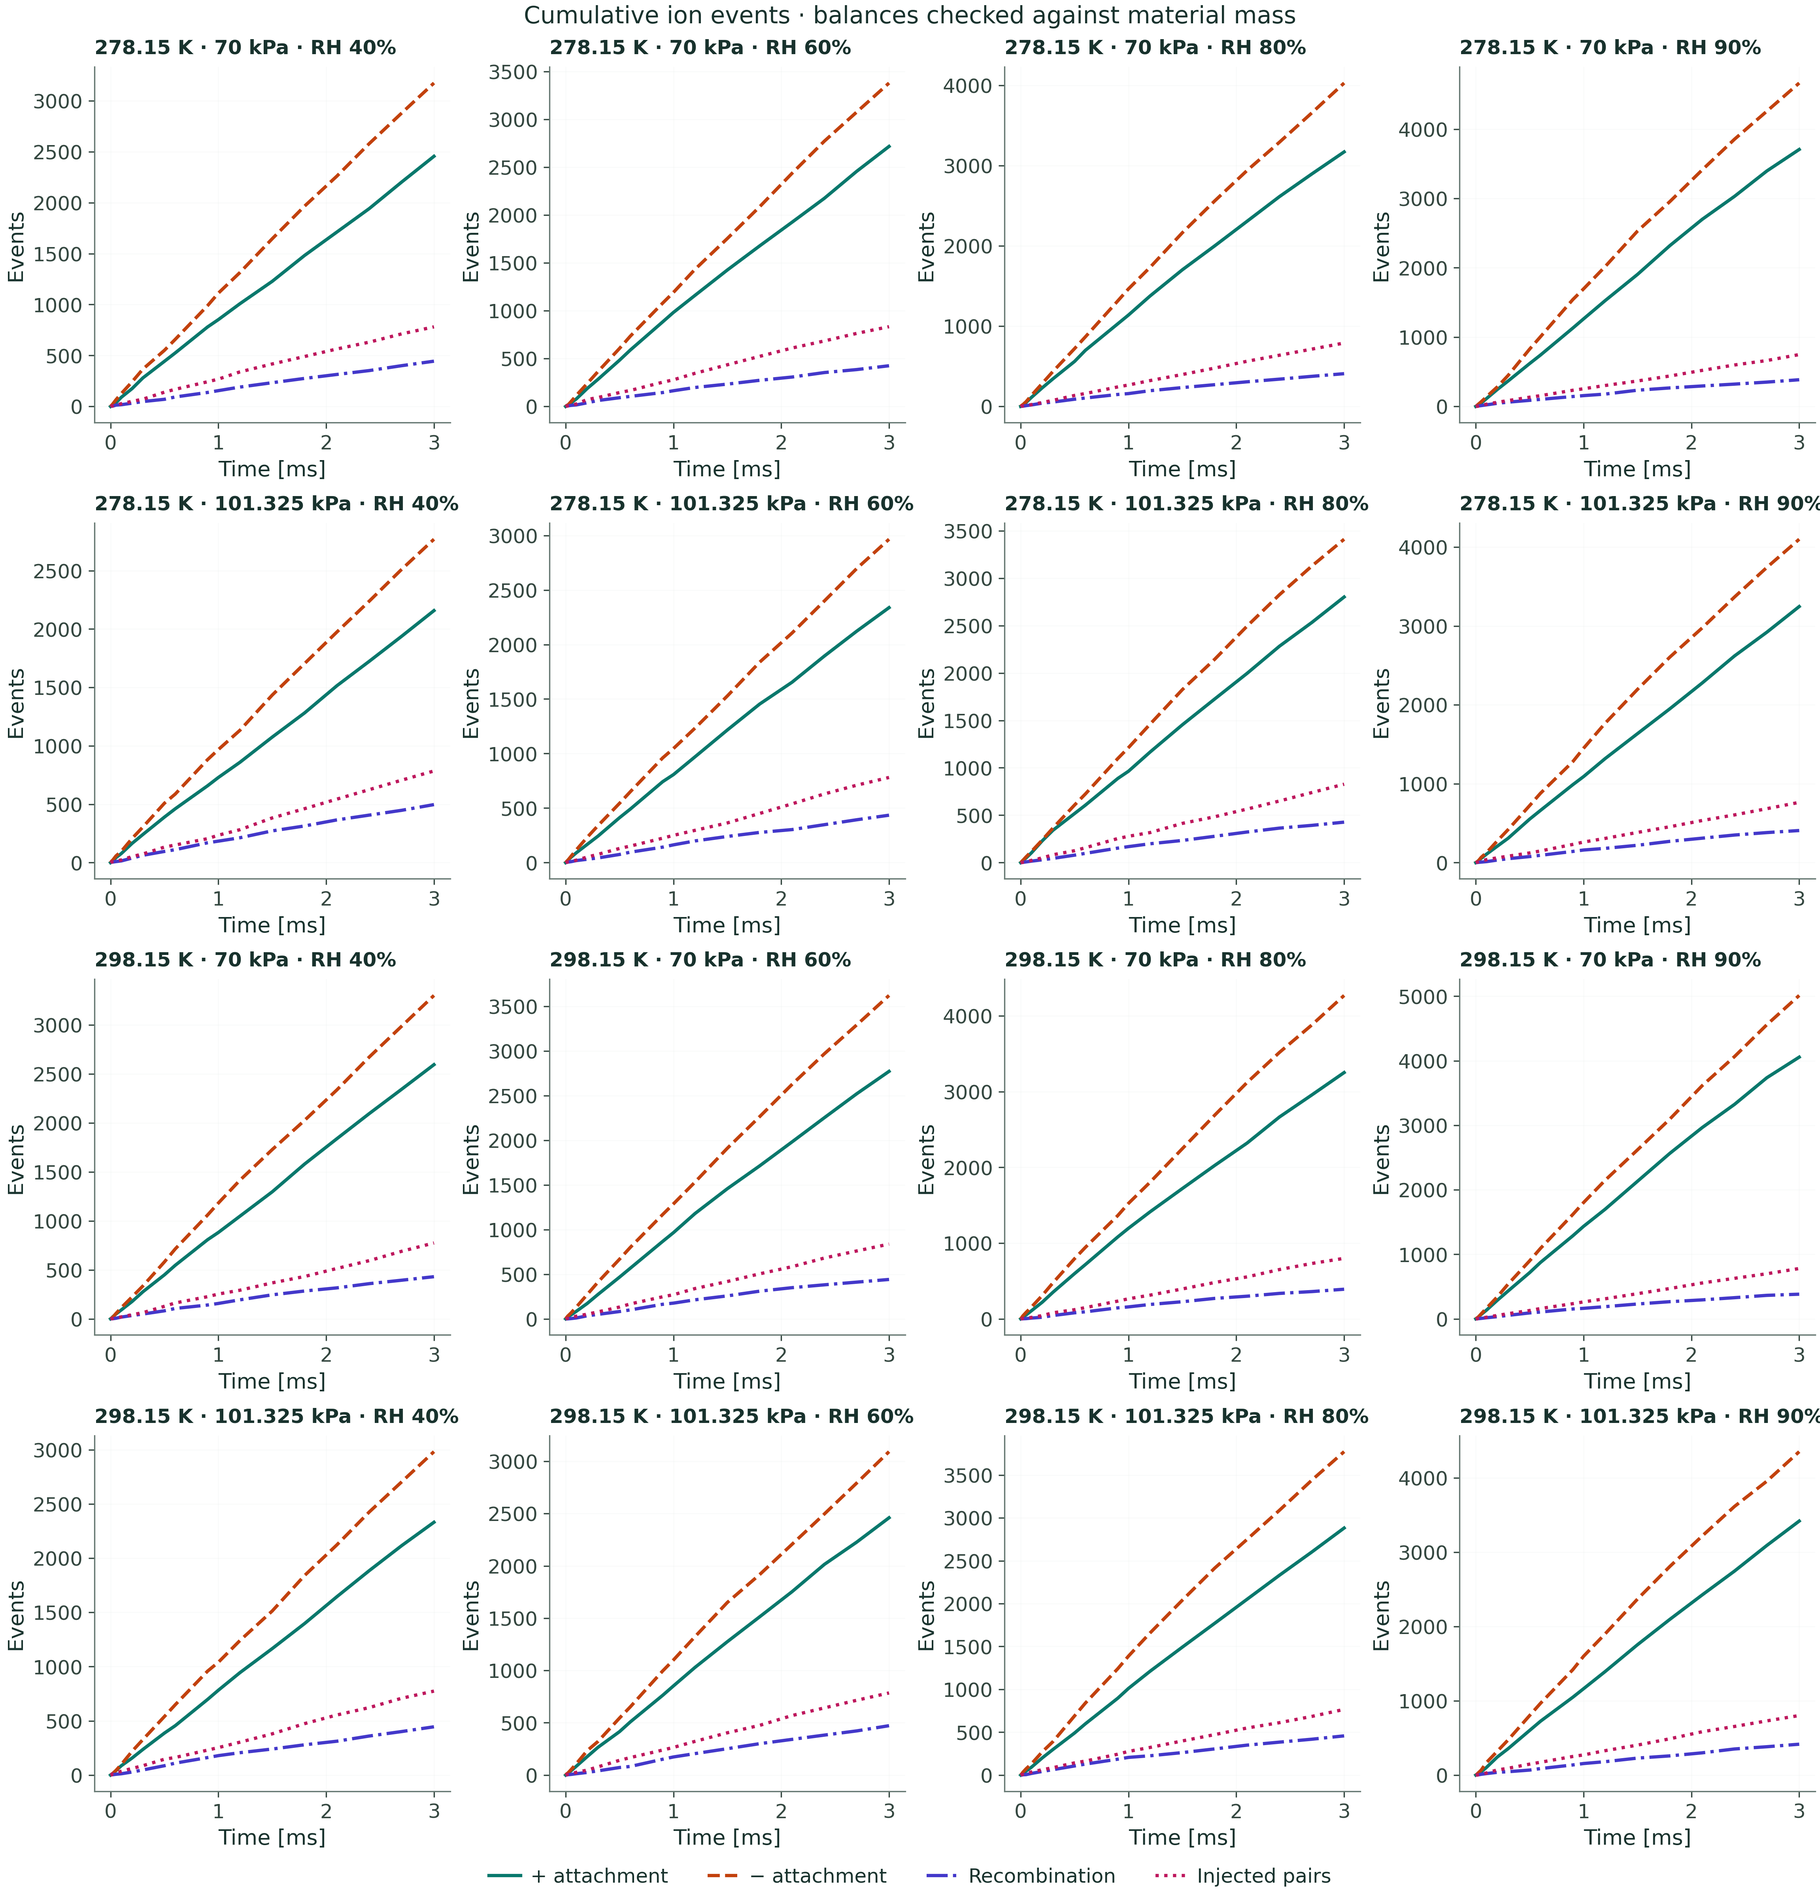
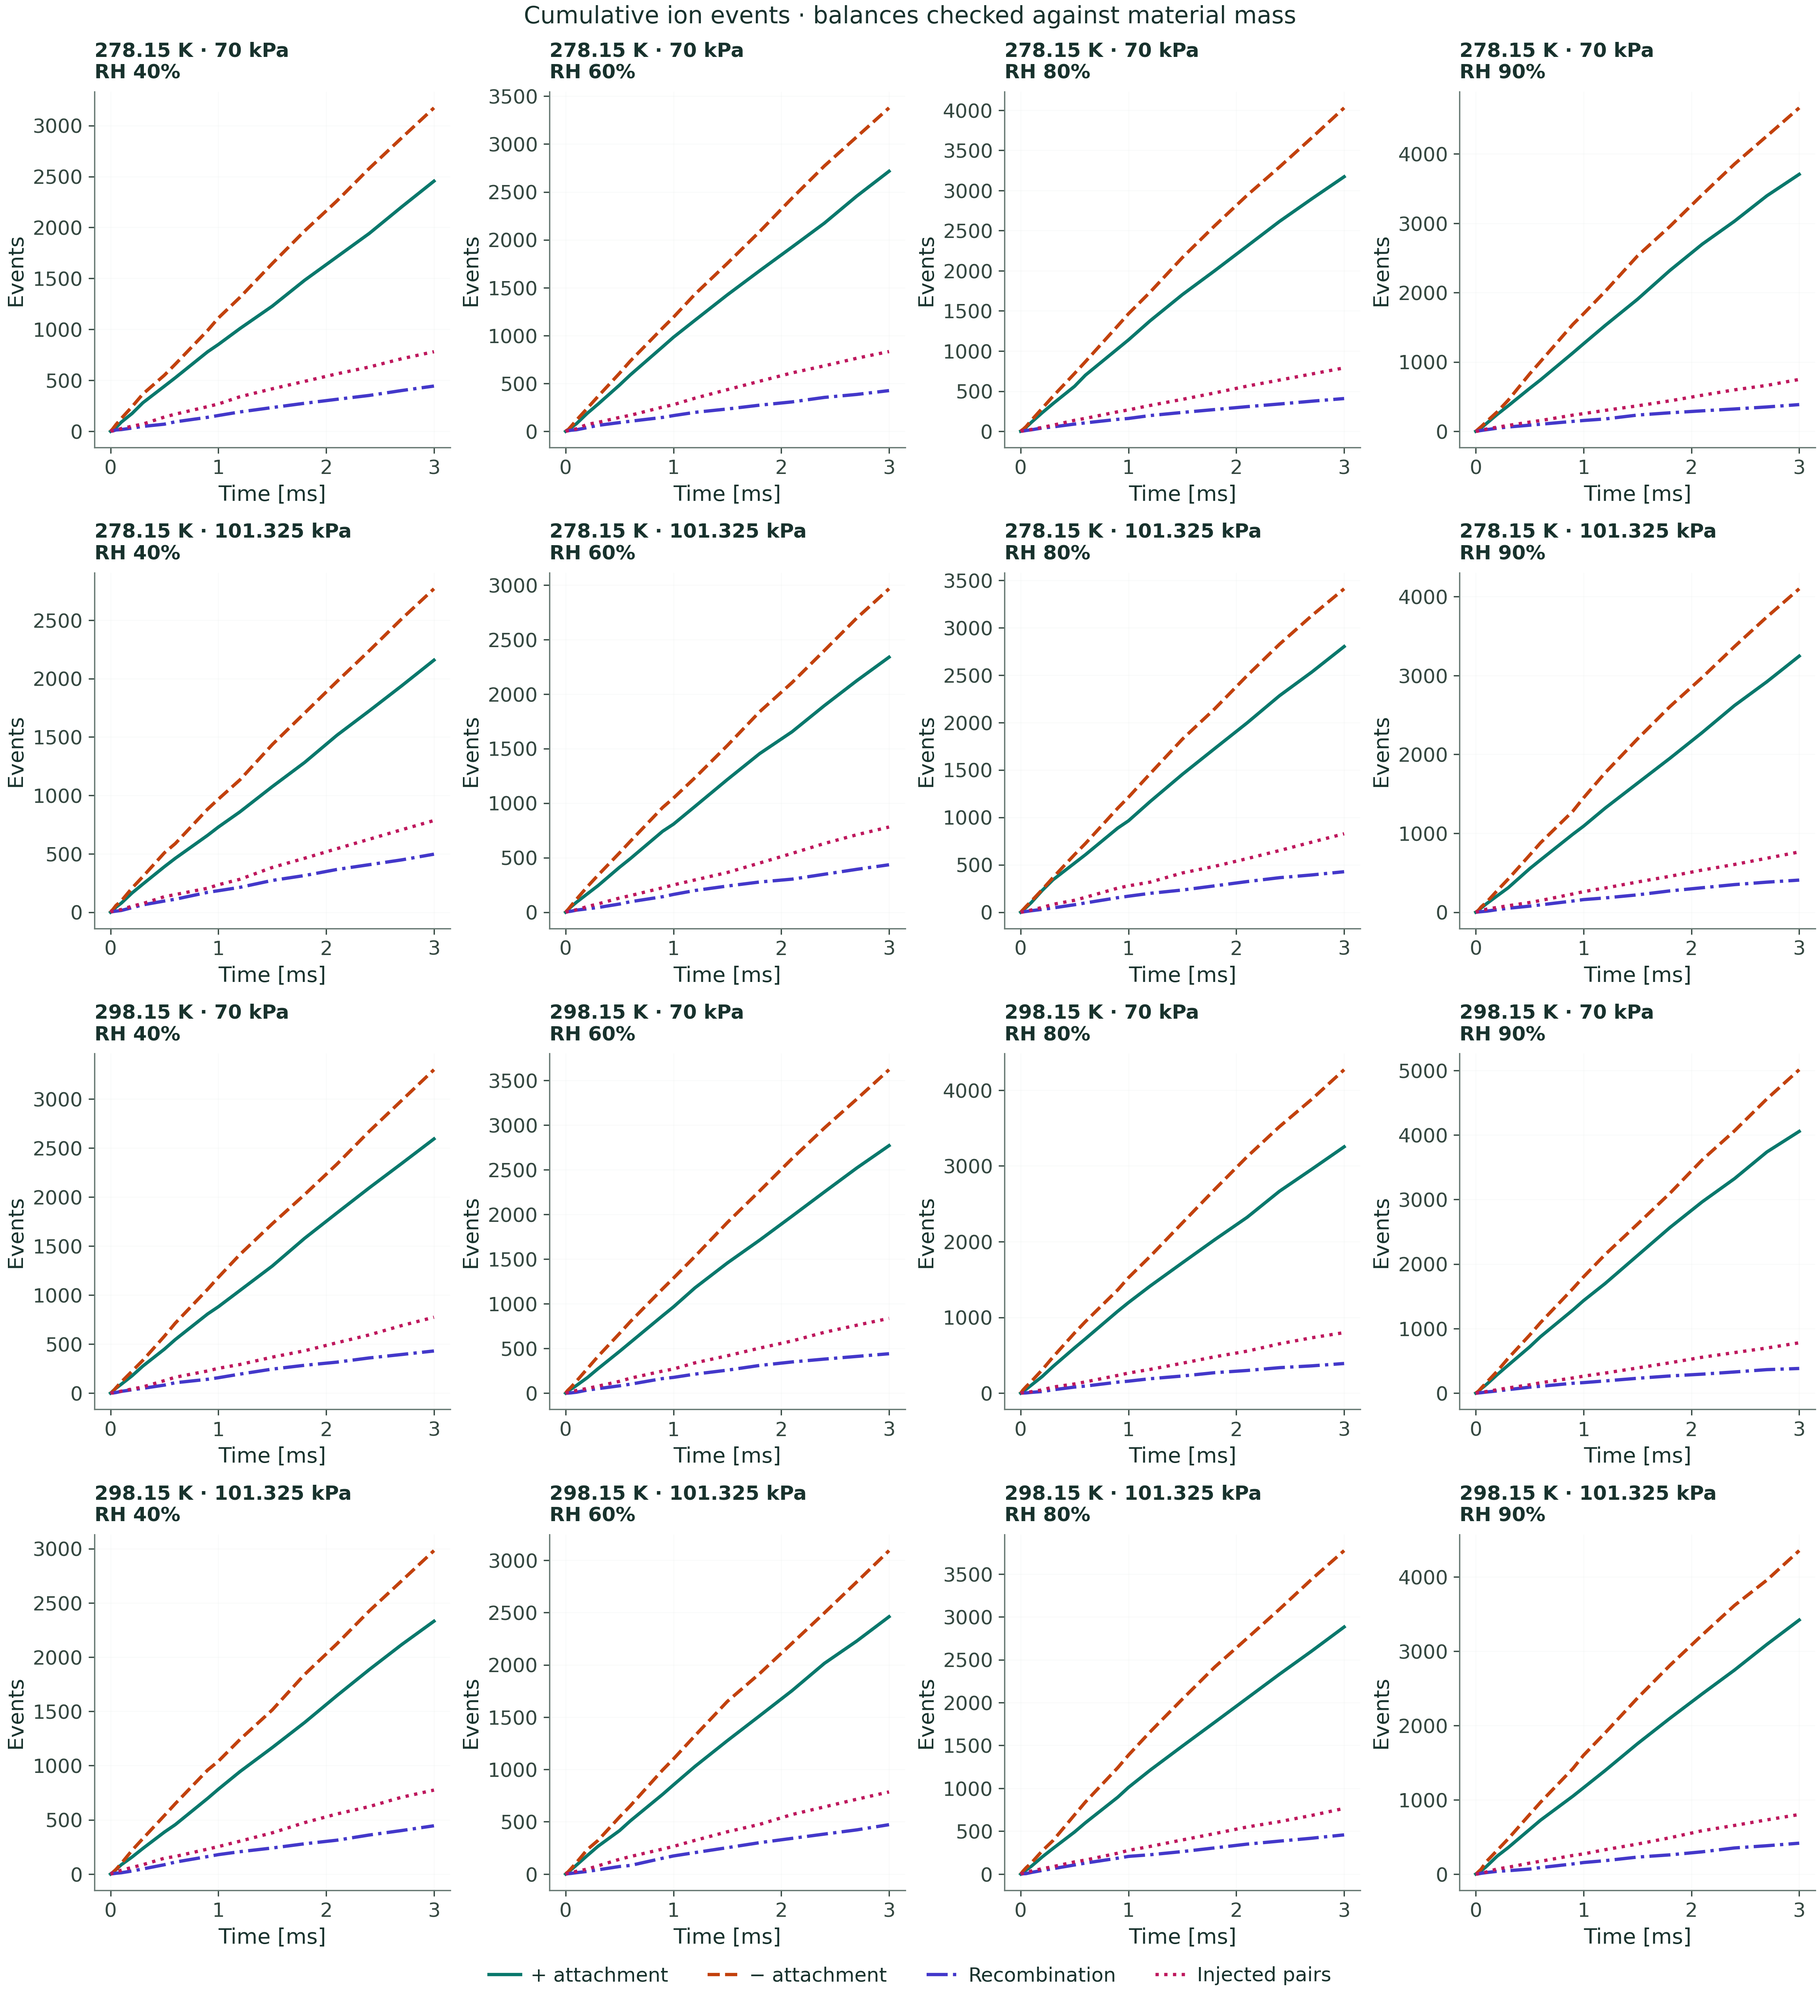
docs(figures): fit humidity condition labels on ion panels

diff --git a/docs/examples/gpu/prepared/gpu_environment_sweep.py b/docs/examples/gpu/prepared/gpu_environment_sweep.py
@@ -171,7 +171,7 @@ def plot_results(report):
     panel_labels = [label.replace(" · RH ", "\nRH ") for label in labels]
     population_figures(report, panel_labels, time_scale=1000, time_unit="ms")
     describe_population(report, labels)
-    ion_figures(report, labels)
+    ion_figures(report, panel_labels)
     plotting.fit(fig)
     return report
 

diff --git a/website/results/gpu-environment-sweep/source.py b/website/results/gpu-environment-sweep/source.py
@@ -171,7 +171,7 @@ def plot_results(report):
     panel_labels = [label.replace(" · RH ", "\nRH ") for label in labels]
     population_figures(report, panel_labels, time_scale=1000, time_unit="ms")
     describe_population(report, labels)
-    ion_figures(report, labels)
+    ion_figures(report, panel_labels)
     plotting.fit(fig)
     return report
 
